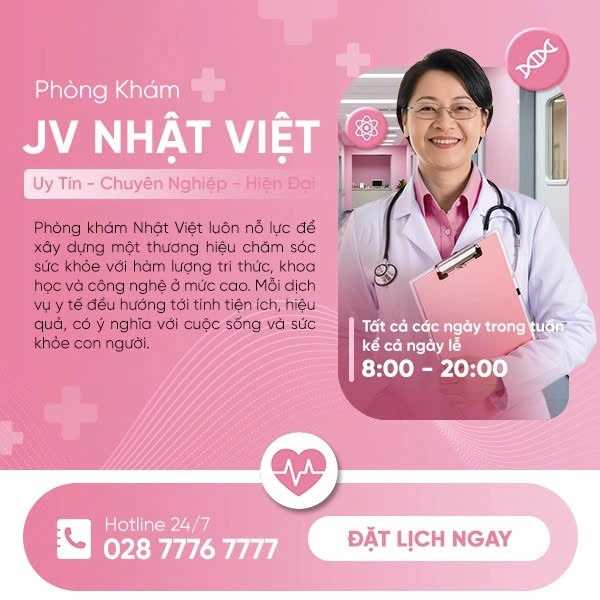
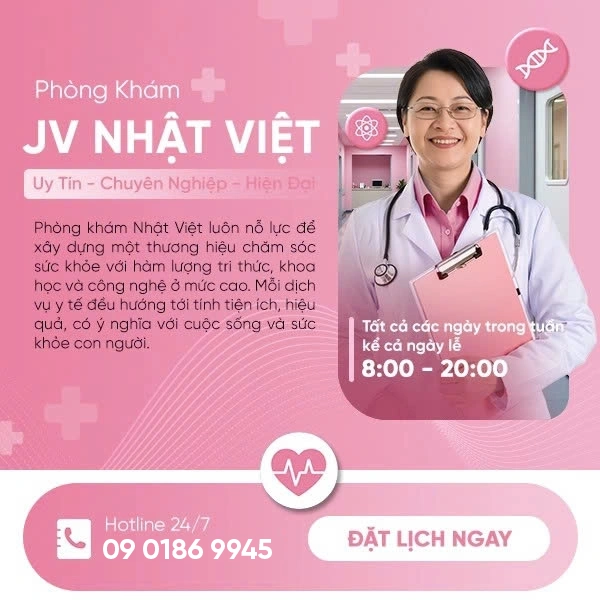
update

Changed region(s): [[0.15, 0.87, 0.48, 0.93]]

diff --git a/chi-tiet-bai-viet.php b/chi-tiet-bai-viet.php
@@ -84,7 +84,7 @@ setTitleAndScroll();
                             một số nội dung có thể không thuộc nghiệp vụ của phòng khám chúng tôi, Hiệu quả của việc hỗ trợ
                             điều trị phụ thuộc vào cơ địa của mỗi người. Cần biết thông tin liên hệ để được tư vấn trực
                             tuyến miễn phí.<a aria-label="tư vấn"
-                                href="https://tuvan.mayo.com.vn/LR/Chatpre.aspx?id=KUK38256576&lng=en">[TƯ VẤN
+                                href="javascript:void(0)" onclick="openZoosUrl('chatwin'); return false;">[TƯ VẤN
                                 TRỰC TUYẾN]</a>
                         </div>
                     <?php } else { ?>
@@ -156,7 +156,10 @@ setTitleAndScroll();
                             imgElements[i].style.setProperty('display', 'block', 'important');
                             let divWrapper = document.createElement('a');
                             divWrapper.className = 'glow-on-hover';
-                            divWrapper.href = "https://tuvan.mayo.com.vn/LR/Chatpre.aspx?id=KUK38256576&lng=en";
+                            divWrapper.href = "javascript:void(0)";
+                            divWrapper.addEventListener("click", function() {
+                                openZoosUrl('chatwin');
+                            });
                             divWrapper.setAttribute("aria-label", "Chat da khoa");
                             imgElements[i].parentNode.insertBefore(divWrapper, imgElements[i]);
                             divWrapper.appendChild(imgElements[i])

diff --git a/layout/header_layout.php b/layout/header_layout.php
@@ -13,7 +13,11 @@
             <?php include "layout/sider_bar.php" ?>
         </div>
     </div>
-    <a href="https://tuvan.mayo.com.vn/LR/Chatpre.aspx?id=KUK38256576&lng=en" class="header__mobile-baner">
+    <div style="position: relative;" class="header__mobile-baner">
         <img fetchpriority=high src="<?php echo $local ?>/images/banner/banner_mobile.webp" alt="..." srcset="">
-    </a>
+        <div style="position: absolute; bottom: 0; left: 0; width: 100%; height: 15vh; display: flex;">
+            <a style="display: block ; width: 50%; height: 15vh;" href="tel:+0901869945"></a>
+            <a style="display: block ; width: 50%; height: 15vh;" href="javascript:void(0)" onclick="openZoosUrl('chatwin'); return false;"></a>
+        </div>
+    </div>
 </header>

diff --git a/inc/footer.php b/inc/footer.php
@@ -41,7 +41,7 @@
                      <span>GỌI NGAY</span>
                  </div>
              </a>
-             <a href="https://tuvan.mayo.com.vn/LR/Chatpre.aspx?id=KUK38256576&lng=en" class="footer__mobile-container-right">
+             <a href="javascript:void(0)" onclick="openZoosUrl('chatwin'); return false;" class="footer__mobile-container-right">
                  <div>ĐẶT LỊCH</div>
                  <img loading="lazy" width="70px" height="auto" src="<?php echo $local ?>/images/icons/icon_lich.png"
                      alt="...">

diff --git a/layout/sider_bar.php b/layout/sider_bar.php
@@ -15,7 +15,7 @@
          <a href="<?php echo $local ?>">lịch khám bệnh</a>
      </li>
      <li>
-         <a href="https://tuvan.mayo.com.vn/LR/Chatpre.aspx?id=KUK38256576&lng=en">tư vấn trực tuyến</a>
+         <a href="javascript:void(0)" onclick="openZoosUrl('chatwin'); return false;">tư vấn trực tuyến</a>
      </li>
      <li>
          <a href="tel:02877779888">đặt lịch</a>
